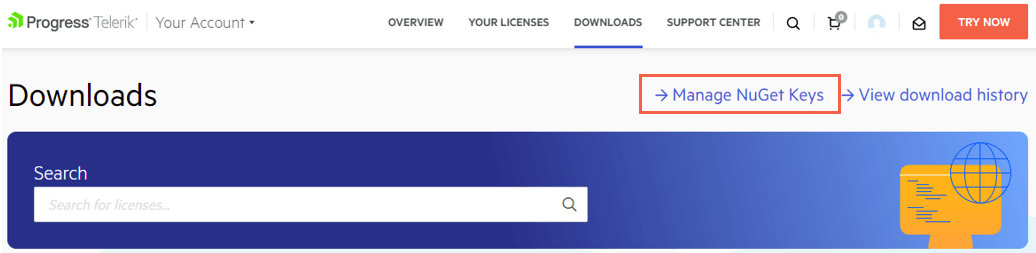
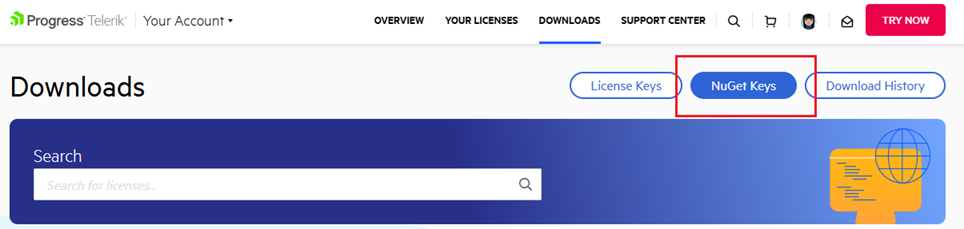
added Telerik NuGet Source article

diff --git a/getting-started/Installation/telerik-nuget-source.md b/getting-started/Installation/telerik-nuget-source.md
@@ -1,0 +1,194 @@
+---
+title: Telerik NuGet Source
+page_title: Telerik Private NuGet Feed
+description: Explore the different ways to add the Telerik private NuGet feed to your system, and start using NuGet packages to install the Telerik Document Processing libraries.
+slug: telerik-nuget-source
+tags: get,started,installation,nuget,feed
+published: True
+position: 8
+---
+
+# Telerik Private NuGet Source
+
+This article explains how to add the private Telerik NuGet package feed to your environment. You can use it to obtain the Telerik Document Processing libraries instead of [setting up a local NuGet feed]({%slug installation-nuget-packages%}#manually-download-nuget-packages).
+
+The benefit of using an online NuGet source is that you will receive notifications for newer component versions.
+
+You can set up the remote Telerik NuGet feed in the following ways:
+
+* [Use Visual Studio](#use-visual-studio)
+* [Use the .NET CLI](#use-the-net-cli)
+* [Edit the Nuget.Config file](#edit-the-nuget-config-file)
+
+>tip When working with the .NET CLI or editing the `NuGet.Config` manually, you can use your Telerik account credentials or a [NuGet API Key](#use-nuget-api-key). If you are logging in to telerik.com through single sign-on (SSO), use a [NuGet API Key](#use-nuget-api-key).
+
+>warning Never hard-code Telerik account credentials or NuGet API keys in a `NuGet.Config` file in a GitHub repository, Docker image, or any location that may be accessed by unauthorized parties. A NuGet key is valuable and bad actors can use it to access the NuGet packages that are licensed under your account. A credentials abuse can lead to a review of the affected Telerik account.
+
+For NuGet-related issues, see [Troubleshooting Telerik NuGet]({%slug troubleshooting-telerik-nuget%}).
+
+For information on automated builds, CI and CD, see [Restoring NuGet Packages in Your CI Workflow]({%slug using-nuget-keys%}).
+
+
+## Use Visual Studio
+
+When adding NuGet sources in Visual Studio, the credentials are encrypted and stored outside the `NuGet.Config` file.
+
+Refer to the [Microsoft documentation about using packages in Visual Studio](https://learn.microsoft.com/en-us/nuget/consume-packages/install-use-packages-visual-studio), or follow the steps below for Visual Studio on Windows.
+
+1. Open Visual Studio and go to Tools > NuGet Package Manager > Package Manager Settings > Package Sources.
+
+1. Click the **+** button at the top right-hand side.
+
+1. Add the Telerik Feed URL `https://nuget.telerik.com/v3/index.json` and choose a Name for that package source (for example, "TelerikOnlineFeed").
+
+1. Click OK.
+
+1. Open a project that references a Telerik NuGet package. 
+    * Make sure to remove local `NuGet.Config` files from the solution that contain information about Telerik packages. 
+    
+1. Rebuild the solution.
+
+1. A Windows prompt will ask for the Telerik feed credentials. Enter your Telerik email and password.
+    * Check the Remember My Password checkbox.
+    
+1. Your project should now build and restore all packages - including those from nuget.org and from Telerik.
+    * If you experience issues, see the [Troubleshooting Telerik NuGet]({%slug troubleshooting-telerik-nuget%}).
+
+
+## Use the .NET CLI
+
+When adding NuGet sources from the .NET CLI, the credentials are stored in the `NuGet.Config` file. The [password can be encrypted on Windows, but with limitations](#store-encrypted-credentials). You can use a plain text password, but for better security, [generate a NuGet API Key](#use-nuget-api-key), and use it with the .NET CLI instead of a password.
+
+To add the Telerik NuGet package source with the .NET CLI, use the [`dotnet nuget add source`](https://learn.microsoft.com/en-us/dotnet/core/tools/dotnet-nuget-add-source) command. This command creates or updates a `NuGet.Config` file for you, so you don't have to [edit it manually](#edit-the-nuget-config-file).
+
+The command below stores the password or NuGet API Key in plain text in the [global config file](https://learn.microsoft.com/en-us/nuget/consume-packages/configuring-nuget-behavior#config-file-locations-and-uses).
+
+The backslashes `\` below enable multi-line commands for better readability in terminals that support them.
+
+>caption Use the .NET CLI to add the Telerik NuGet source
+
+````SH.skip-repl
+dotnet nuget add source https://nuget.telerik.com/v3/index.json \
+--name TelerikOnlineFeed \
+--username <TELERIK EMAIL or api-key> \
+--password <TELERIK PASSWORD or NUGET API KEY> \
+--store-password-in-clear-text
+````
+
+If you have already stored the Telerik package source, you can update the configuration with the command below.
+
+>caption Use the .NET CLI to update the Telerik NuGet source
+
+````SH.skip-repl
+dotnet nuget update source "TelerikOnlineFeed" \
+--source "https://nuget.telerik.com/v3/index.json" \
+--username <TELERIK EMAIL or api-key> \
+--password <TELERIK PASSWORD or NUGET API KEY> \
+--store-password-in-clear-text
+````
+
+### Store Encrypted Credentials
+
+The .NET CLI supports NuGet password encryption only on the Windows platform. Note that [the encrypted password in the `NuGet.Config` file will work only for one user and one machine](https://learn.microsoft.com/en-us/nuget/reference/nuget-config-file#packagesourcecredentials).
+
+If you [add the Telerik package source in Visual Studio](#use-visual-studio), the credentials will be encrypted and stored in the Windows Credential Manager on Windows and in the Keychain on macOS.
+
+You can read more about the options provided by the NuGet tooling in the <a href="https://docs.microsoft.com/en-us/nuget/reference/nuget-config-file#packagesourcecredentials" target="_blank">packageSourceCredentials section of the NuGet.Config reference</a> article by Microsoft. Note the difference between the `password` and `cleartextpassword` options. 
+
+
+## Edit the NuGet.Config File
+
+NuGet package sources and other settings are stored in a `NuGet.Config` file. You can read more about the file structure in the Microsoft article [NuGet.Config Reference](https://learn.microsoft.com/en-us/nuget/reference/nuget-config-file).
+
+Make sure you are familiar with how such configurations work. Refer to [Common NuGet Configurations](https://learn.microsoft.com/en-us/nuget/consume-packages/configuring-nuget-behavior) for details about the possible file locations and how multiple `NuGet.Config` files work.
+
+To edit a `NuGet.Config` file and add the Telerik feed, you need to:
+
+1. Ensure you are editing the [correct and desired config file](https://learn.microsoft.com/en-us/nuget/consume-packages/configuring-nuget-behavior#config-file-locations-and-uses). You can also create a new one with the [`dotnet new nugetconfig` command](https://docs.microsoft.com/en-us/dotnet/core/tools/dotnet-new).
+
+2. Add the Telerik package source to the config file. Use plain text credentials, because the .NET Core NuGet tooling does not fully support encrypted credentials. Here is an example of how your `NuGet.Config` file can look like:
+
+````XML.skip-repl
+<?xml version="1.0" encoding="utf-8"?>
+<configuration>
+    <packageSources>
+    <!--To inherit the global NuGet package sources remove the <clear/> line below -->
+    <clear />
+    <add key="nuget.org" value="https://api.nuget.org/v3/index.json" />
+    <add key="TelerikOnlineFeed" value="https://nuget.telerik.com/v3/index.json" />
+    </packageSources>
+    <packageSourceCredentials>
+    <TelerikOnlineFeed>
+        <add key="Username" value="<TELERIK EMAIL or api-key>" />
+        <add key="ClearTextPassword" value="<TELERIK PASSWORD or NUGET API KEY>" />
+    </TelerikOnlineFeed>
+    </packageSourceCredentials>
+</configuration>
+````
+
+## Use NuGet API Key
+
+There are two ways to authenticate with the Telerik NuGet server when you add the Telerik NuGet source [with the .NET CLI](#use-the-net-cli) or [edit the `NuGet.Config` file manually](#edit-the-nuget-config-file):
+
+* Use your Telerik account email as the username, and your Telerik password.
+* Use `api-key` as the username and your personal [NuGet API Key]({%slug using-nuget-keys%}) as the password.
+
+You can [generate your Telerik NuGet API Key on telerik.com](https://www.telerik.com/account/downloads/nuget-keys). Read more about  [Restoring NuGet Packages in Your CI Workflow]({%slug using-nuget-keys%}).
+
+> Always use the NuGet API Key in plain text.
+
+
+## Package Source Mapping
+
+The Document Processing Libraries' NuGet packages and most of its dependencies reside on `nuget.telerik.com`. On the other hand, the [`Telerik.Licensing` package]({%slug setting-up-license-key%}) reside on `nuget.org`. The correct [package source mapping](https://learn.microsoft.com/en-us/nuget/consume-packages/package-source-mapping) configuration should be similar to the one below.
+
+> Make sure that the `key` values in the `packageSourceMapping` section match the `key` values in the `packageSources` section, otherwise you will get a "Package not found" error.
+
+>caption packageSourceMapping configuration for Telerik Document Processing and other Telerik Packages
+
+<div class="skip-repl"></div>
+
+````XML
+<?xml version="1.0" encoding="utf-8" ?>
+<configuration>
+    <packageSources>
+        <add key="nuget.org" value="https://api.nuget.org/v3/index.json" />
+        <add key="TelerikOnlineFeed" value="https://nuget.telerik.com/v3/index.json" />
+    </packageSources>
+
+    <packageSourceMapping>
+        <packageSource key="nuget.org">
+            <package pattern="*" />
+            <package pattern="Telerik.Licensing" />
+        </packageSource>
+        <packageSource key="TelerikOnlineFeed">
+            <package pattern="Telerik*" />
+        </packageSource>
+    </packageSourceMapping>
+</configuration>
+````
+
+
+## Access NuGet Packages behind Firewall
+
+To access the Telerik NuGet feed behind a firewall that restricts outgoing requests, you may need to allow the following domains:
+
+* `nuget.telerik.com`, which provides authentication and license verification
+* `downloads.cdn.telerik.com`, which hosts the NuGet packages
+
+The firewall must allow some of the requests to be redirected from `nuget.telerik.com` to `downloads.cdn.telerik.com`.
+
+## Obsolete Telerik NuGet URL
+
+The NuGet v2 server at `https://nuget.telerik.com/nuget` was sunset in November 2024 and is no longer available. The v3 protocol offers faster package searches and restores, improved security, and more reliable infrastructure. To redirect your feed to the NuGet v3 protocol, all you have to do is to change your NuGet package source URL to `https://nuget.telerik.com/v3/index.json`.
+
+
+## Troubleshooting
+
+See the [NuGet Troubleshooting](slug:troubleshooting-nuget) article for tips about common pitfalls when working with the Telerik NuGet feed.
+
+## See Also
+
+* [Restoring NuGet Packages in Your CI Workflow]({%slug using-nuget-keys%})
+* [Install using NuGet Packages]({%slug installation-nuget-packages%})
+* [NuGet Troubleshooting](slug:troubleshooting-nuget) 

diff --git a/getting-started/Installation/nuget-keys.md b/getting-started/Installation/nuget-keys.md
@@ -1,7 +1,7 @@
 ---
 title: Restoring NuGet Packages in CI
 page_title: Restoring NuGet Packages in CI 
-description: "Learn how to use NuGet Keys to authenticate with the Telerik NuGet server and restore Telerik Document Processing packages in your CI or desktop environment."
+description: Learn how to use NuGet Keys to authenticate with the Telerik NuGet server and restore Telerik Document Processing packages in your CI or desktop environment.
 slug: using-nuget-keys
 tags: telerik, document, processing, restore, nuget, packages, ci, continuous, integration, installation
 published: True
@@ -25,14 +25,21 @@ Unlike your Telerik credentials, a NuGet Key has a limited scope and can be used
 
 1. Go to the [**Manage NuGet Keys**](https://www.telerik.com/account/downloads/nuget-keys) page in your Telerik account.
 
-1. Select the **DOWNLOADS** tab and then **Manage NuGet Keys**.
+1. Alternatively, select the **Downloads** tab from your Telerik account and then **NuGet Keys**.
 
     ![Manage NuGet Keys](images/manage-nuget-keys.png)
+
+    The **NuGet Keys** can be accessed from the **License Keys** section as well:
+
+    ![NuGet Keys from License Keys](images/access-nuget-keys-from-license-keys.png) 
+
 
 1. To create a new key, select the **Generate New Key** button.
 
 1. Enter a name for the NuGet Key, and then select **Generate Key**.
 
+    ![Generate NuGet Key](images/generate-nuget-key.png)
+ 
 1. To copy the key, select **Copy and Close**. Once you close the window, you can no longer copy the generated key. For security reasons, the **NuGet Keys** page displays only a portion of the key.
 
     ![Copy Generated NuGet Key](images/copy-nuget-key.png)
@@ -63,6 +70,8 @@ There are two popular ways to use the Telerik NuGet server in a build:
 
 For more information on how to use NuGet keys in a build, check the [Announcing NuGet Keys](https://www.telerik.com/blogs/announcing-nuget-keys) blog post by Lance McCarthy.
 
+The examples below assume that the secret environment variable name is `TELERIK_NUGET_KEY`.
+
 ### Using a nuget.config File with Your Projects
 
 1. In your `nuget.config` file, set the `Username` value to `api-key` and the `ClearTextPassword` value to an environment variable name:
@@ -77,16 +86,16 @@ For more information on how to use NuGet keys in a build, check the [Announcing 
         <packageSourceCredentials>
             <MyTelerikFeed>
             <add key="Username" value="api-key" />
-            <add key="ClearTextPassword" value="%MY_API_KEY%" />
+            <add key="ClearTextPassword" value="%TELERIK_NUGET_KEY%" />
             </MyTelerikFeed>
         </packageSourceCredentials>
         ...
         </configuration>
     ```
 
-1. Set the `MY_API_KEY` environment variable by using the value of your pipeline/workflow secret.
+1. Set the `TELERIK_NUGET_KEY` environment variable by using the value of your pipeline/workflow secret.
 
-The exact steps to set the `MY_API_KEY` environment variable depend on your workflow. For more details, refer to the [Announcing NuGet Keys](https://www.telerik.com/blogs/announcing-nuget-keys) blog post by Lance McCarthy.
+The exact steps to set the `TELERIK_NUGET_KEY` environment variable depend on your workflow. For more details, refer to the [Announcing NuGet Keys](https://www.telerik.com/blogs/announcing-nuget-keys) blog post by Lance McCarthy.
 
 ### Using Only CLI Commands
 

diff --git a/getting-started/Installation/install-nuget-packages.md b/getting-started/Installation/install-nuget-packages.md
@@ -18,9 +18,14 @@ This article describes how you can install the Document Processing Libraries usi
 
 ## Manually Download NuGet Packages
 
-1\. First you need to log in using your Telerik licensed account. Telerik Document Processing is a part of several Telerik bundles and is available in the Downloads section of the suite with which you've obtained the product, e.g. UI for Blazor. This way you will be able to download the packages:
+This approach allows you to setup a local NuGet package source, so you can install the Telerik products without an active Internet connection and without setting up our private feed.
+
+1\. Copy all the .nupkg files we provide to your preferred local feed location. First you need to log in using your Telerik licensed account. Telerik Document Processing is a part of several Telerik bundles and is available in the Downloads section of the suite with which you've obtained the product, e.g. UI for Blazor. This way you will be able to download the packages:
 
 ![install-using-nuget001](images/install-using-nuget001.png)
+
+
+**Telerik Document Processing** is also available as a separate distibution in your account: [Download Product Files]({%slug installation-nuget-packages%})
 	
 2\. Then, you need to add packages to Visual Studio. Open the NuGet manager and then click the Options button:
 	
